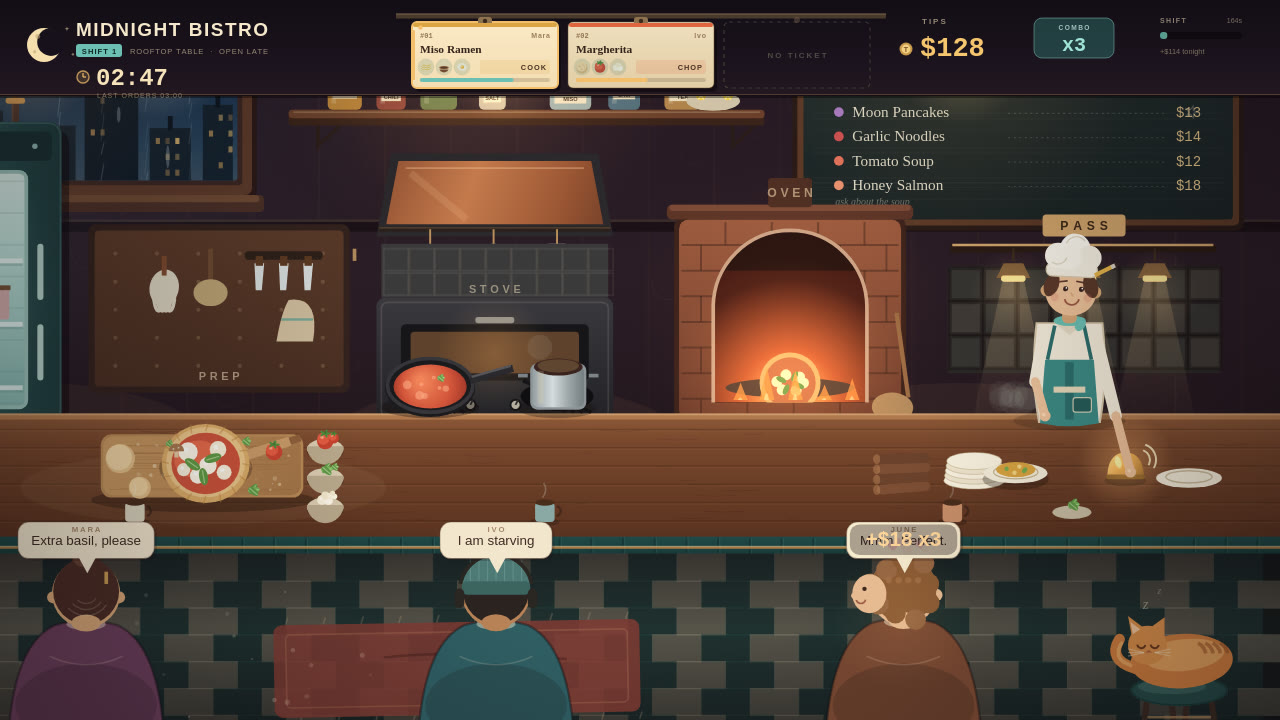
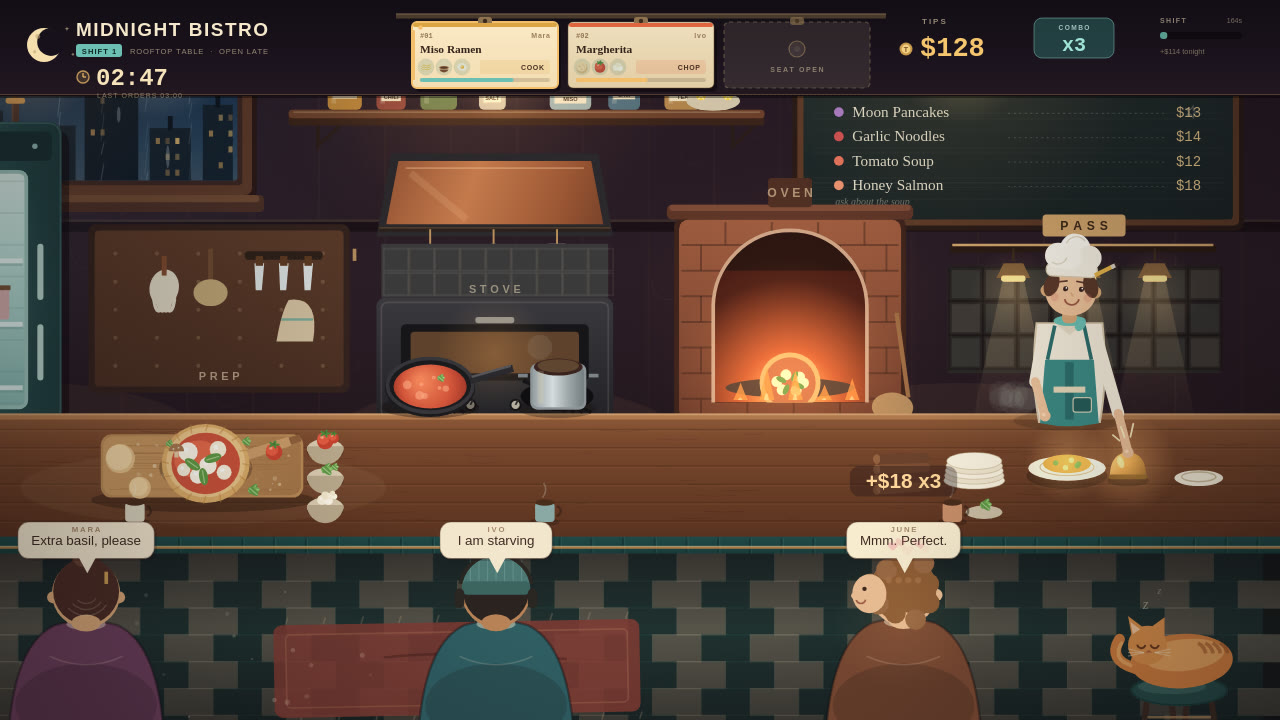
Polish the serve screenshot

Changed region(s): [[0.6562, 0.55, 0.9375, 0.7944], [0.5938, 0.0306, 0.6562, 0.1222], [0.8125, 0.7028, 0.875, 0.7333]]

diff --git a/game/src/render.js b/game/src/render.js
@@ -1209,36 +1209,35 @@ function drawPassTop(ctx, game) {
     ctx.lineWidth = 0.8;
     ctx.stroke();
   }
-  // finished ramen bowl under the lamps
-  drawDish(ctx, 1058, 500, recipeById('ramen'), 1, false);
+  // plated tickets sit under the heat lamps; the hero bowl fills the middle lamp when the pass is clear
+  const plated = game.orders.filter((o) => o && (o.plated || o.step === 'serve'));
+  if (plated.length === 0) {
+    drawDish(ctx, 1100, 496, recipeById('ramen'), 1.22, true);
+  } else {
+    const first = 1114 - ((plated.length - 1) * 58) / 2;
+    plated.forEach((o, i) => {
+      drawDish(ctx, first + i * 58, 530, o.recipe, 0.68, o.quality === 'perfect');
+    });
+  }
   // brass bell
-  drawBell(ctx, 1148, 502, game);
+  drawBell(ctx, 1150, 502, game);
   // clean plate at the end
   ctx.fillStyle = '#f7efdb';
   ctx.beginPath();
-  ctx.ellipse(1200, 504, 27, 8, 0, 0, Math.PI * 2);
+  ctx.ellipse(1208, 504, 20, 6.5, 0, 0, Math.PI * 2);
   ctx.fill();
   ctx.strokeStyle = withAlpha('#c8b795', 0.9);
   ctx.lineWidth = 1.2;
   ctx.beginPath();
-  ctx.ellipse(1200, 503, 19, 5, 0, 0, Math.PI * 2);
+  ctx.ellipse(1208, 503, 14, 4, 0, 0, Math.PI * 2);
   ctx.stroke();
-  // plated tickets sit on the pass
-  let shown = 0;
-  game.orders.forEach((o) => {
-    if (o && (o.plated || o.step === 'serve')) {
-      const dx = 1088 + shown * 40;
-      drawDish(ctx, dx, 528, o.recipe, 0.62, o.quality === 'perfect');
-      shown++;
-    }
-  });
-  if (game.orders.every((o) => !o || (!o.plated && o.step !== 'serve'))) {
+  if (plated.length === 0) {
     // a small herb garnish bowl so the pass never feels empty
     ctx.fillStyle = '#cbbfa4';
     ctx.beginPath();
-    ctx.ellipse(1104, 532, 16, 5.5, 0, 0, Math.PI * 2);
+    ctx.ellipse(1032, 532, 15, 5.5, 0, 0, Math.PI * 2);
     ctx.fill();
-    drawIngredient(ctx, 'basil', 1104, 526, 8);
+    drawIngredient(ctx, 'basil', 1032, 526, 8);
   }
 }
 

diff --git a/game/src/hud.js b/game/src/hud.js
@@ -147,14 +147,25 @@ function drawTicket(ctx, game, index, x, y, w, h) {
   const seat = game.seats[index];
   ctx.save();
   if (!order) {
-    ctx.strokeStyle = withAlpha('#8f795c', 0.35);
+    ctx.fillStyle = withAlpha('#efdfbd', 0.1);
+    rr(ctx, x, y, w, h, 5);
+    ctx.fill();
+    ctx.strokeStyle = withAlpha('#8f795c', 0.55);
     ctx.setLineDash([4, 4]);
     ctx.lineWidth = 1.2;
     rr(ctx, x, y, w, h, 5);
     ctx.stroke();
     ctx.setLineDash([]);
-    text(ctx, 'NO TICKET', x + w / 2, y + h / 2 + 3, 8, withAlpha('#cdbd9f', 0.32), { align: 'center', spacing: 2, weight: 700 });
-    circle(ctx, x + w / 2, y - 2, 3, withAlpha('#8f795c', 0.35));
+    ctx.fillStyle = withAlpha('#8d734f', 0.65);
+    rr(ctx, x + w / 2 - 7, y - 5, 14, 8, 3);
+    ctx.fill();
+    circle(ctx, x + w / 2, y - 1, 2.2, withAlpha('#3b2b1c', 0.7));
+    ctx.strokeStyle = withAlpha('#a98d63', 0.55);
+    ctx.lineWidth = 1.2;
+    circle(ctx, x + w / 2, y + 27, 8, withAlpha('#efdfbd', 0.08));
+    ctx.stroke();
+    circle(ctx, x + w / 2, y + 27, 3, withAlpha('#efdfbd', 0.08));
+    text(ctx, 'SEAT OPEN', x + w / 2, y + 50, 7, withAlpha('#cdbd9f', 0.6), { align: 'center', spacing: 1.6, weight: 700 });
     ctx.restore();
     return;
   }
@@ -206,7 +217,7 @@ function drawTicket(ctx, game, index, x, y, w, h) {
   ctx.fillStyle = done ? withAlpha('#2f6e69', 0.9) : withAlpha(r.color, 0.16);
   rr(ctx, x + 68, y + 38, w - 76, 14, 3);
   ctx.fill();
-  text(ctx, done ? 'SERVE ' + (index + 1) : verb, x + w - 12, y + 48, 7.4, done ? '#e8f3e7' : '#4a3324', { weight: 700, spacing: 1, align: 'right' });
+  text(ctx, done ? 'SERVE ' + (index + 1) : verb, x + w - 14, y + 48, 7, done ? '#e8f3e7' : '#4a3324', { weight: 700, spacing: 0.7, align: 'right' });
   // patience
   const pc = patienceColor(order.patience);
   ctx.fillStyle = withAlpha('#3b2b1c', 0.18);

diff --git a/game/src/player.js b/game/src/player.js
@@ -272,14 +272,14 @@ export function drawChef(ctx, game) {
       { x: 31, y: -28 },
     ];
   } else if (pose === 'ring') {
-    const wob = Math.sin(c.poseT * 22) * 2.2;
+    const wob = Math.sin(c.poseT * 22) * 1.4;
     hands = [
       { x: -20, y: -2 },
-      { x: 50, y: 44 + wob },
+      { x: 48 + wob, y: 28 },
     ];
     elbows = [
       { x: -28, y: -30 },
-      { x: 38, y: -2 },
+      { x: 40, y: -4 },
     ];
   } else if (pose === 'plate') {
     hands = [
@@ -319,11 +319,15 @@ export function drawChef(ctx, game) {
   } else if (pose === 'bake') {
     drawPeel(ctx, hands[1].x - 6, hands[1].y + 4, -0.2);
   } else if (pose === 'ring') {
-    ctx.strokeStyle = withAlpha('#fff2c8', 0.85);
-    ctx.lineWidth = 1.6;
-    for (let i = 0; i < 2; i++) {
+    const hx = hands[1].x;
+    const hy = hands[1].y;
+    ctx.strokeStyle = withAlpha('#fff2c8', 0.9);
+    ctx.lineWidth = 1.5;
+    for (let i = 0; i < 3; i++) {
+      const a = -2.5 + i * 0.55 + Math.sin(game.time * 16) * 0.05;
       ctx.beginPath();
-      ctx.arc(hands[1].x + 8, hands[1].y - 10, 7 + i * 5 + Math.sin(game.time * 14) * 1.5, -1.2, 0.5);
+      ctx.moveTo(hx + Math.cos(a) * 9, hy - 4 + Math.sin(a) * 9);
+      ctx.lineTo(hx + Math.cos(a) * (16 + i * 2), hy - 4 + Math.sin(a) * (16 + i * 2));
       ctx.stroke();
     }
   } else if (pose === 'plate') {

diff --git a/game/src/shots.js b/game/src/shots.js
@@ -138,7 +138,7 @@ export function stageShot(game, kind, seed = 7) {
     game.tipsEarned = 114;
     game.served = 3;
     game.lastTip = { amount: 18, mult: 3, t: 2.1, slot: 2 };
-    addPopup(game, '+$18 x3', 966, 560, '#ffd79a');
+    addPopup(game, '+$18 x3', 966, 512, '#ffd79a');
     emitHearts(game, 966, 582, 7);
     emitCoins(game, 966, 596, 1004, 54, 4);
     emitSteam(game, 1058, 452, 8, 14, { a: 0.16 });
